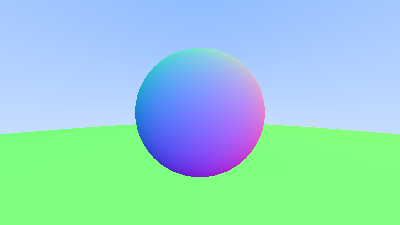
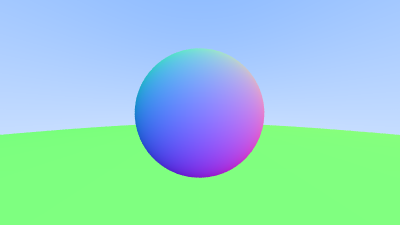
camera and multisampling

diff --git a/main.cpp b/main.cpp
@@ -1,7 +1,9 @@
-#include "stb_image_write.h"
-#include "rtweekend.h"
+#include "camera.h"
+#include "color.h"
 #include "hittable_list.h"
+#include "rtweekend.h"
 #include "sphere.h"
+#include "stb_image_write.h"
 
 color ray_color(const ray& r, const hittable& world)
 {
@@ -22,6 +24,7 @@ int main()
 	const auto aspect_ratio = 16.0 / 9.0;
 	const int image_width = 400;
 	const int image_height = static_cast<int>(image_width / aspect_ratio);
+	const int samples_per_pixel = 32;
 
 	// World
 	hittable_list world;
@@ -29,14 +32,7 @@ int main()
 	world.add(make_shared<sphere>(point3(0, -100.5, -1), 100));
 
 	// Camera
-	const auto viewport_height = 2.0;
-	const auto viewport_width = aspect_ratio * viewport_height;
-	const auto focal_length = 1.0;
-
-	const auto origin = point3(0, 0, 0);
-	const auto horizontal = vec3(viewport_width, 0, 0);
-	const auto vertical = vec3(0, viewport_height, 0);
-	const auto lower_left_corner = origin - horizontal/2 - vertical/2 - vec3(0, 0, focal_length);
+	camera cam;
 
 	// Render
 	unsigned char image_data[image_width * image_height * 3];
@@ -46,14 +42,15 @@ int main()
 		std::cout << "\rScanlines remaining: " << j << ' ' << std::flush;
 		for (int i = 0; i < image_width; ++i)
 		{
-			const auto u = double(i) / (image_width-1);
-			const auto v = double(j) / (image_height-1);
-			const ray r(origin, lower_left_corner + u*horizontal + v*vertical - origin);
-
-			color pixel_color = ray_color(r, world);
-			*image_data_ptr++ = static_cast<unsigned char>(255.999 * pixel_color.x);
-			*image_data_ptr++ = static_cast<unsigned char>(255.999 * pixel_color.y);
-			*image_data_ptr++ = static_cast<unsigned char>(255.999 * pixel_color.z);
+			color pixel_color(0,0,0);
+			for (int s = 0; s < samples_per_pixel; ++s)
+			{
+				const auto u = (i+random_double()) / (image_width-1);
+				const auto v = (j+random_double()) / (image_height-1);
+				const ray r = cam.get_ray(u, v);
+				pixel_color += ray_color(r, world);
+			}
+			write_color(image_data_ptr, pixel_color, samples_per_pixel);
 		}
 	}
 

diff --git a/camera.h b/camera.h
@@ -1,0 +1,31 @@
+#pragma once
+
+#include "rtweekend.h"
+
+class camera
+{
+public:
+	camera()
+	{
+		const auto aspect_ratio = 16.0 / 9.0;
+		const auto viewport_height = 2.0;
+		const auto viewport_width = aspect_ratio * viewport_height;
+		const auto focal_length = 1.0;
+
+		origin = point3(0,0,0);
+		horizontal = vec3(viewport_width, 0, 0);
+		vertical = vec3(0, viewport_height, 0);
+		lower_left_corner = origin - horizontal/2 - vertical/2 - vec3(0,0,focal_length);
+	}
+
+	ray get_ray(double u, double v) const
+	{
+		return ray(origin, lower_left_corner + u*horizontal + v*vertical - origin);
+	}
+
+private:
+	point3 origin;
+	point3 lower_left_corner;
+	vec3 horizontal;
+	vec3 vertical;
+};

diff --git a/rtweekend.h b/rtweekend.h
@@ -1,6 +1,7 @@
 #pragma once
 
 #include <cmath>
+#include <cstdlib>
 #include <limits>
 #include <memory>
 
@@ -20,6 +21,25 @@ const double pi = 3.1415926535897932385;
 inline double degrees_to_radians(double degrees)
 {
 	return degrees * pi / 180.0;
+}
+
+inline double random_double()
+{
+	// returns a random real in [0,1)
+	return rand() / (RAND_MAX + 1.0);
+}
+
+inline double random_double(double min, double max)
+{
+	// returns a random real in [min,max)
+	return min + (max-min)*random_double();
+}
+
+inline double clamp(double x, double min, double max)
+{
+	if(x < min) return min;
+	if(x > max) return max;
+	return x;
 }
 
 // Common headers

diff --git a/color.h b/color.h
@@ -1,0 +1,13 @@
+#pragma once
+
+void write_color(unsigned char*& out, const color& pixel_color, int samples_per_pixel)
+{
+	const auto scale = 1.0/samples_per_pixel;
+	const auto r = pixel_color.r * scale;
+	const auto g = pixel_color.g * scale;
+	const auto b = pixel_color.b * scale;
+
+	*out++ = static_cast<unsigned char>(256 * clamp(r, 0.0, 0.999));
+	*out++ = static_cast<unsigned char>(256 * clamp(g, 0.0, 0.999));
+	*out++ = static_cast<unsigned char>(256 * clamp(b, 0.0, 0.999));
+}
